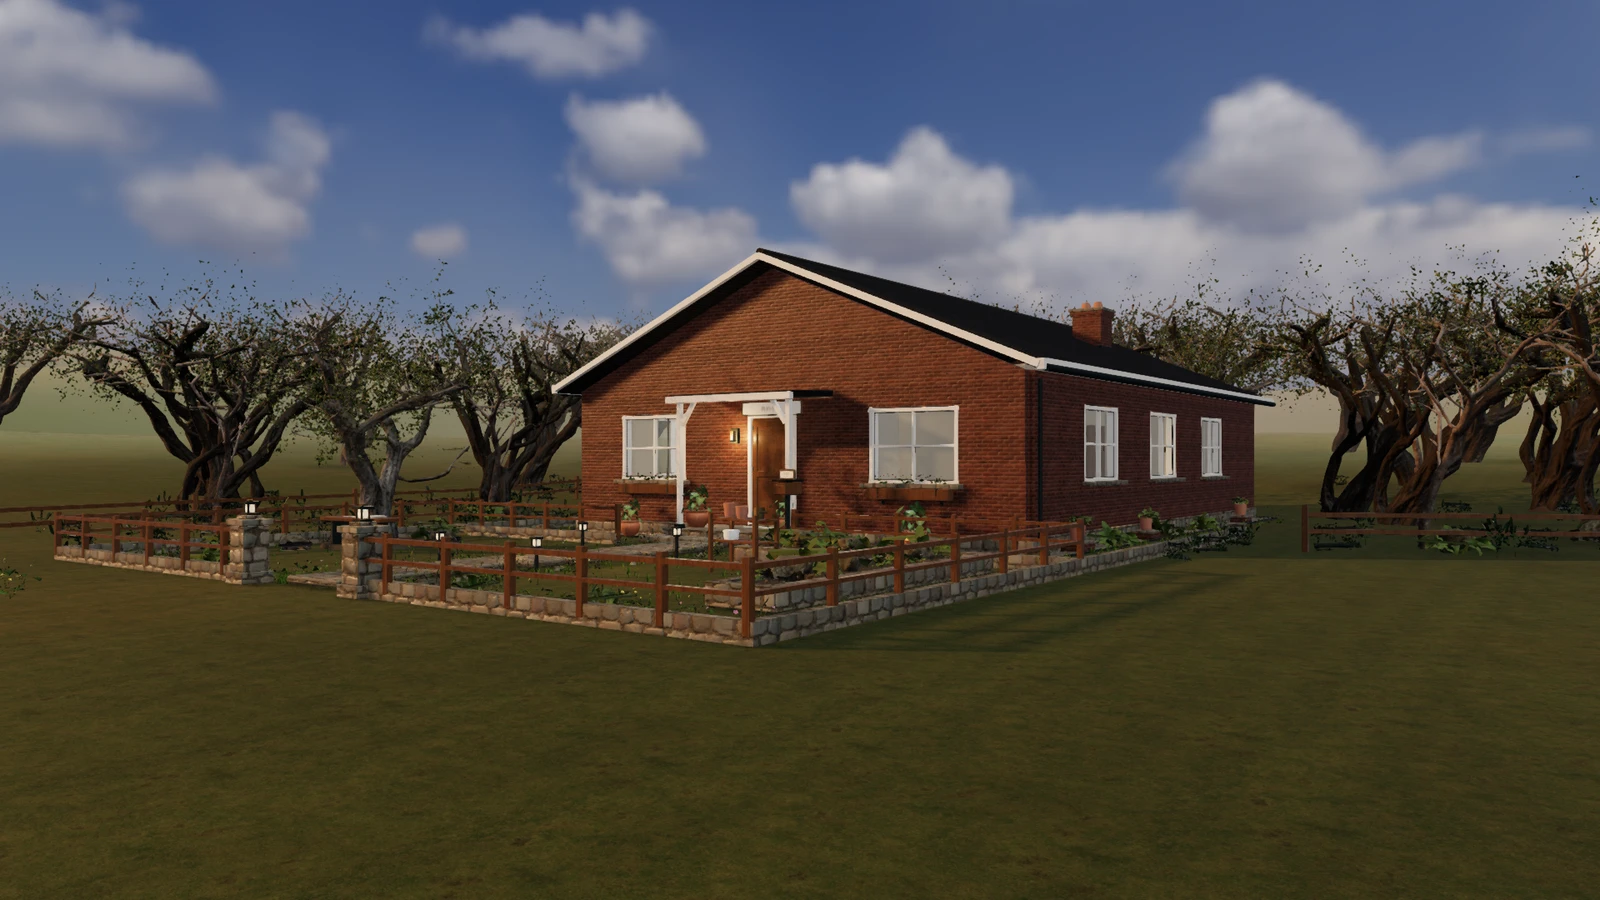
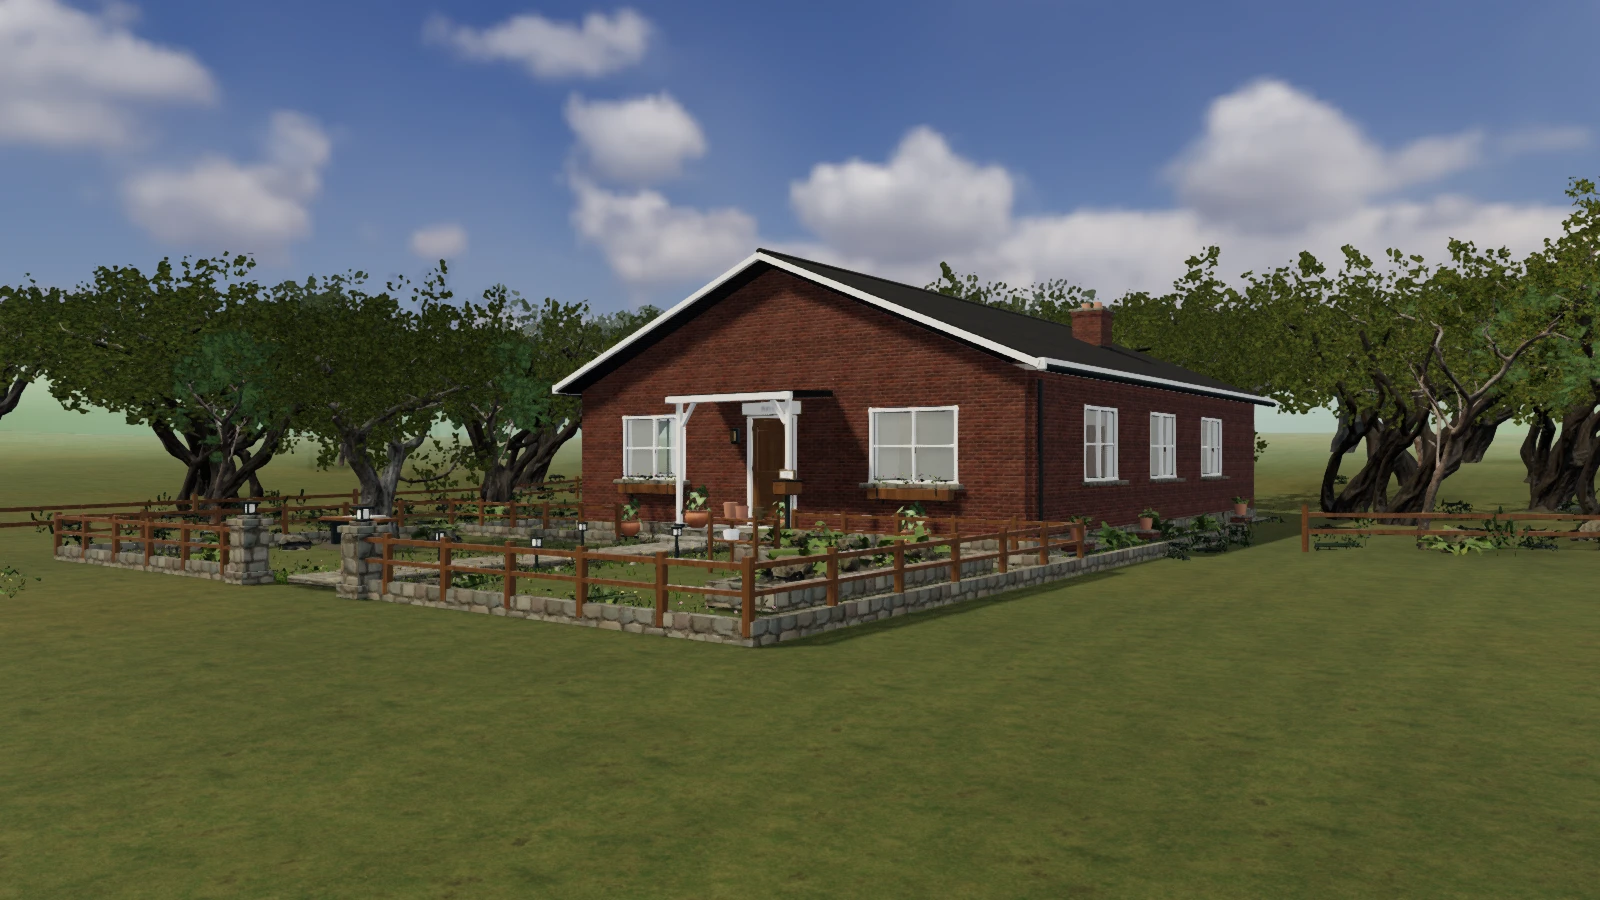
docs: refresh README previews from current app visuals

diff --git a/README.md b/README.md
@@ -144,6 +144,7 @@ Open the extracted folder in **Antigravity, Cursor, or Trae** and paste any of t
 | `npm run check:cms` | Playwright + Mock Supabase verification of Cloud CMS & TUS uploads |
 | `npm run check:edge-cases` | Verify retry on asset failure, DPR cap & mobile touch against `:4319/?qa` |
 | `npm run promo:capture` | Generate promo screenshots, vertical/horizontal videos & README media |
+| `npm run promo:capture -- --readme-only` | Refresh only the README cover and walkthrough GIF from the current app using isolated sample content (requires Chrome/Chromium and FFmpeg) |
 | `npm run sync:supabase` | Migrate `local-data/` to your Supabase project |
 
 ### Mobile Quality & Context Recovery

diff --git a/README.zh-CN.md b/README.zh-CN.md
@@ -181,6 +181,7 @@
 | `npm run check:cms` | Playwright + Mock Supabase 校验云端 CMS、TUS 分片断点上传与乐观锁冲突 |
 | `npm run check:edge-cases` | 针对 `http://127.0.0.1:4319/?qa` 验证资源失败重试、DPR 上限与移动端触控 |
 | `npm run promo:capture` | 自动导入示例并以 `?promo=1` 录制宣传图文、竖屏/横屏视频与 README 动图 |
+| `npm run promo:capture -- --readme-only` | 只更新 README 封面与漫游动图，使用当前程序及隔离的示例内容，需要 Chrome/Chromium 和 FFmpeg |
 | `npm run sync:supabase` | 将本地 `local-data/` 数据与媒体一键迁移至自己的 Supabase 项目 |
 
 ### 架构与性能纪律
